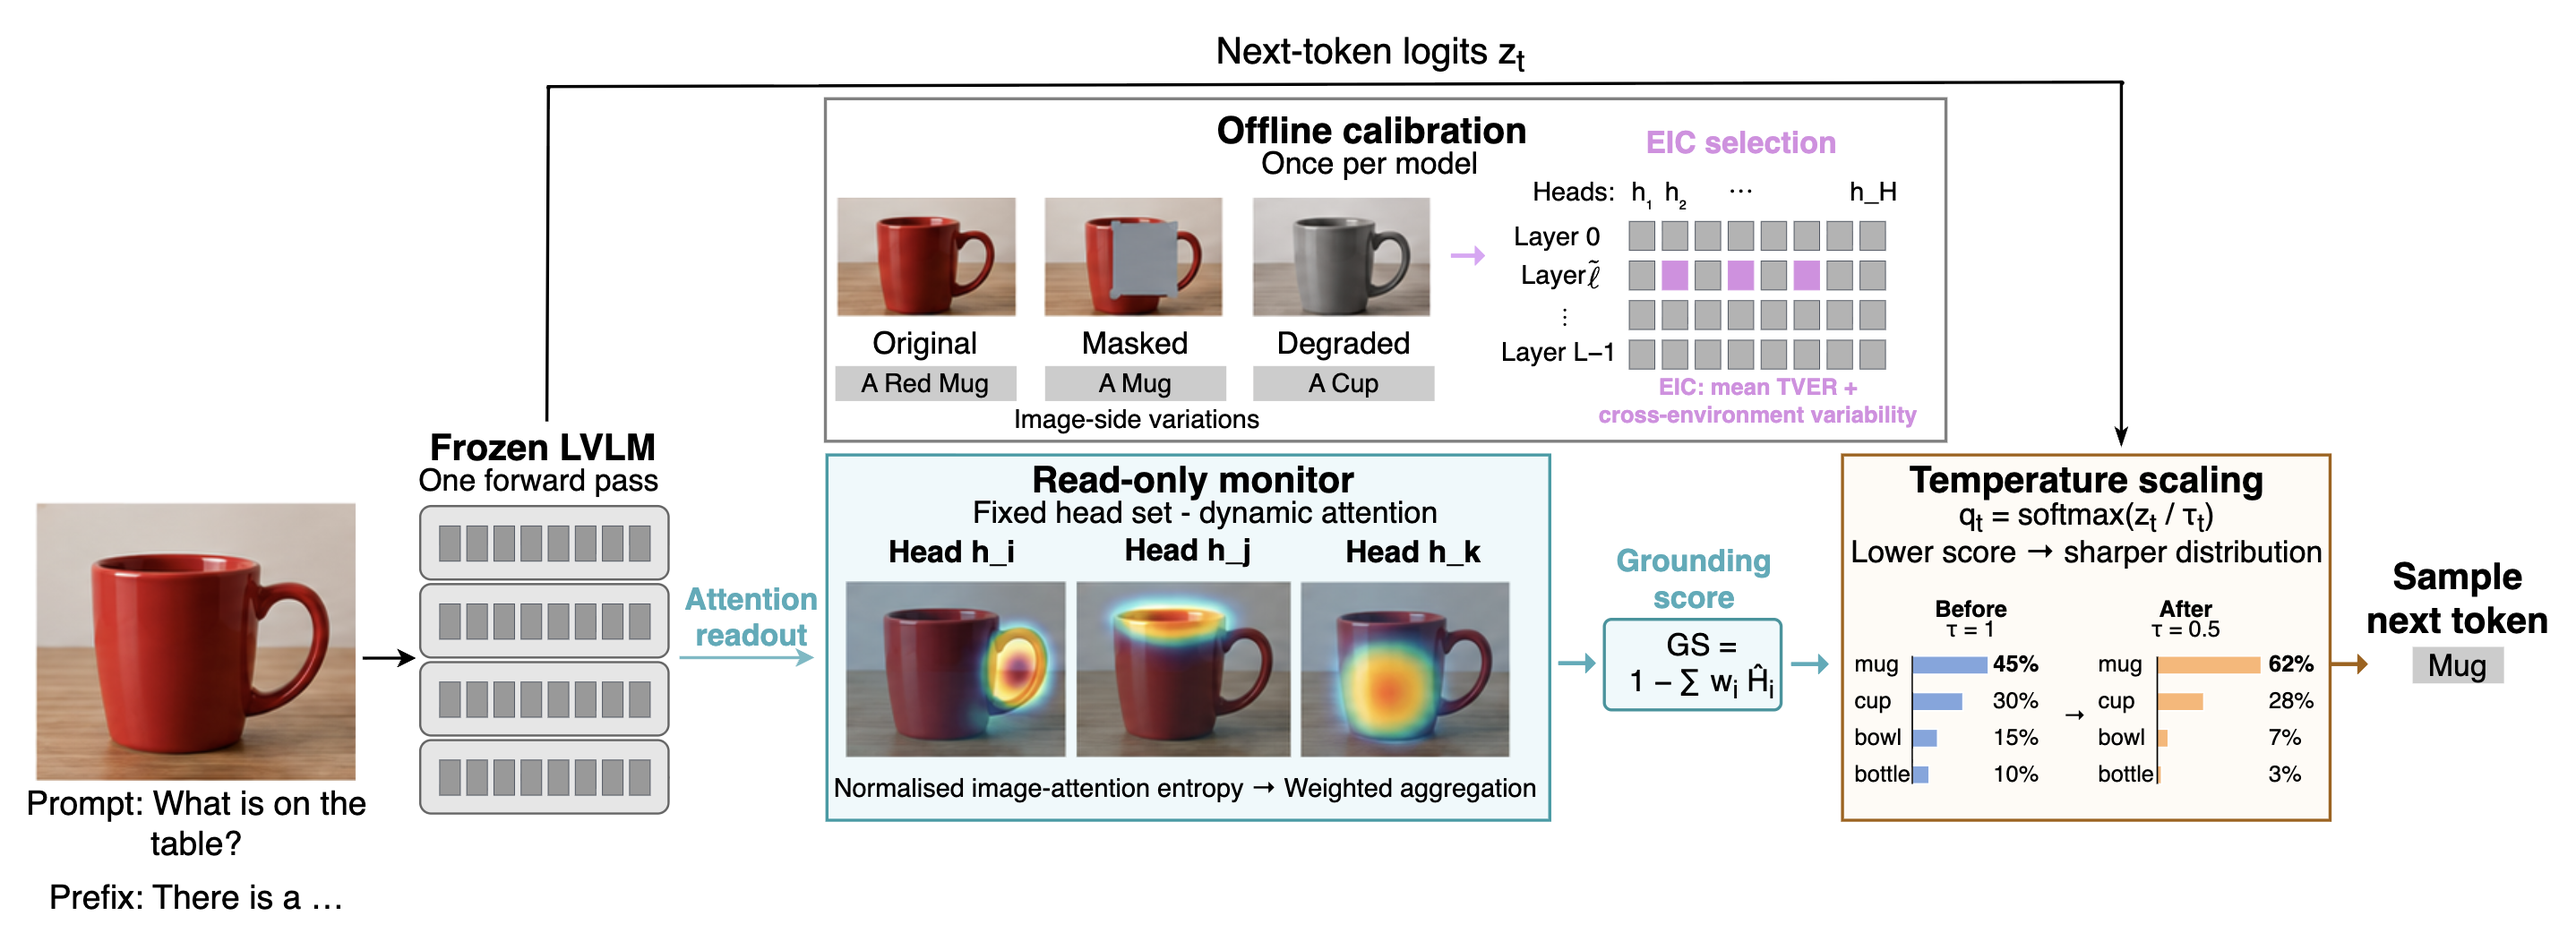
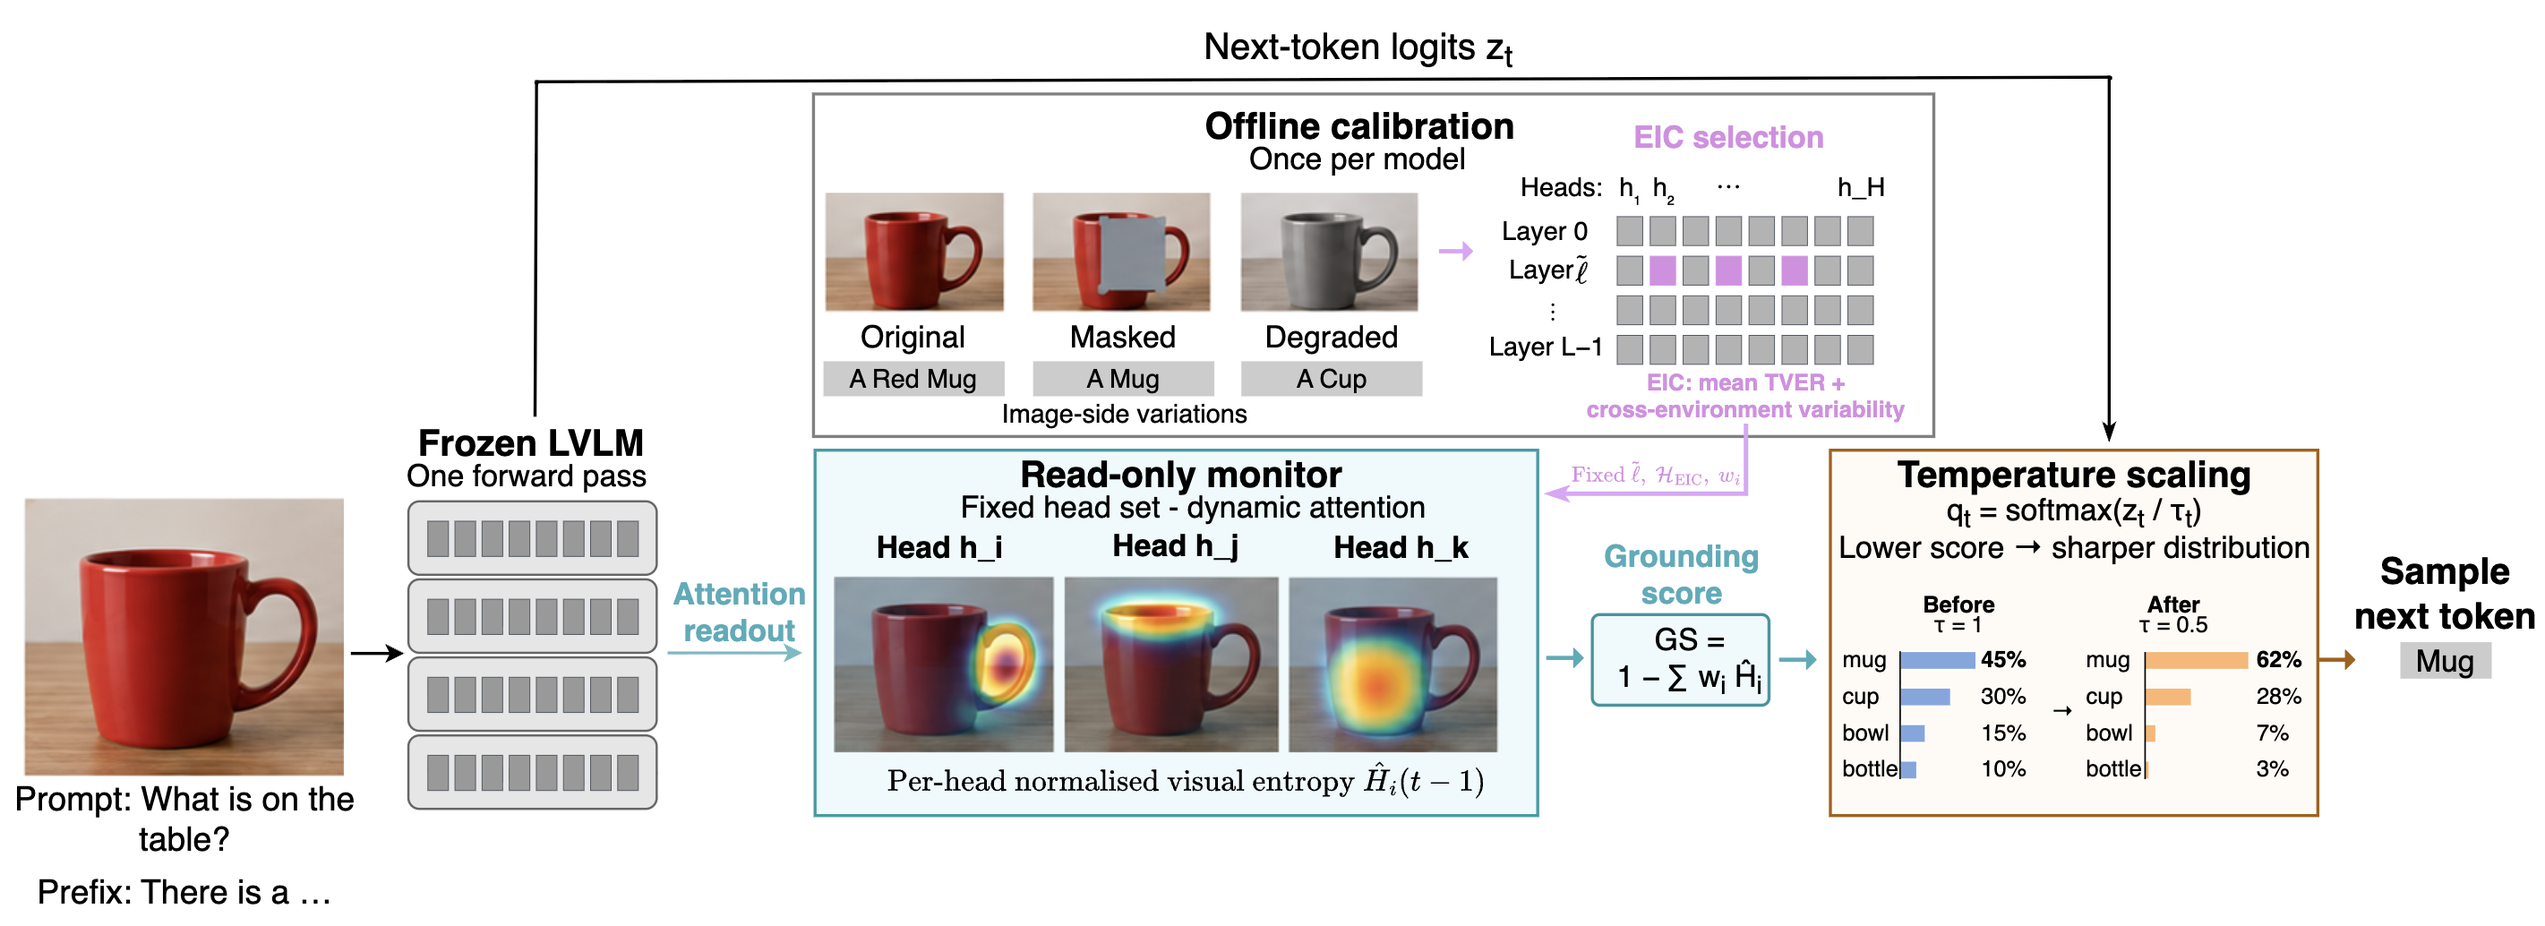
method img

diff --git a/experiments/analysis/efficiency_benchmark.py b/experiments/analysis/efficiency_benchmark.py
@@ -2,8 +2,8 @@
 Efficiency benchmark: Vanilla / VCD / M3ID / ONLY / Ours on LLaVA-1.5-7B.
 
 Measures per-instance latency (mean ± std) and peak GPU memory for each
-method on the same 50 CHAIR images. Greedy decoding, max_new_tokens=128,
-seed=3407.
+method on the same 50 CHAIR images. Sampling uses temperature=1,
+top_p=1, max_new_tokens=128, and seed=3407.
 """
 import os, sys, json, time, argparse, warnings, random, math
 from pathlib import Path
@@ -43,12 +43,15 @@ def parse_args():
     return p.parse_args()
 
 
-def summarize_caption_records(path):
+def summarize_caption_records(path, warmup=0):
     with open(path) as handle:
         records = [json.loads(line) for line in handle if line.strip()]
     required = {"image_id", "generation_seconds", "peak_memory_gib", "generated_tokens"}
     if not records or any(not required.issubset(record) for record in records):
         raise ValueError(f"{path} does not contain efficiency measurements")
+    if len(records) <= warmup:
+        raise ValueError(f"{path} has no records after {warmup} warmups")
+    records = records[warmup:]
     latency = np.asarray([record["generation_seconds"] for record in records])
     memory = np.asarray([record["peak_memory_gib"] for record in records])
     tokens = np.asarray([record["generated_tokens"] for record in records])
@@ -69,7 +72,7 @@ def analyze_caption_files(args):
         name, path = item.split(":", 1)
         paths[name] = path
     loaded = {
-        name: summarize_caption_records(path)
+        name: summarize_caption_records(path, args.warmup)
         for name, path in paths.items()
     }
     if args.reference not in loaded:
@@ -90,7 +93,7 @@ def analyze_caption_files(args):
             summary["peak_memory_gib"] / reference["peak_memory_gib"]
         )
     result = {
-        "warmup_records_excluded": 0,
+        "warmup_records_excluded": args.warmup,
         "reference": args.reference,
         "methods": summaries,
     }
